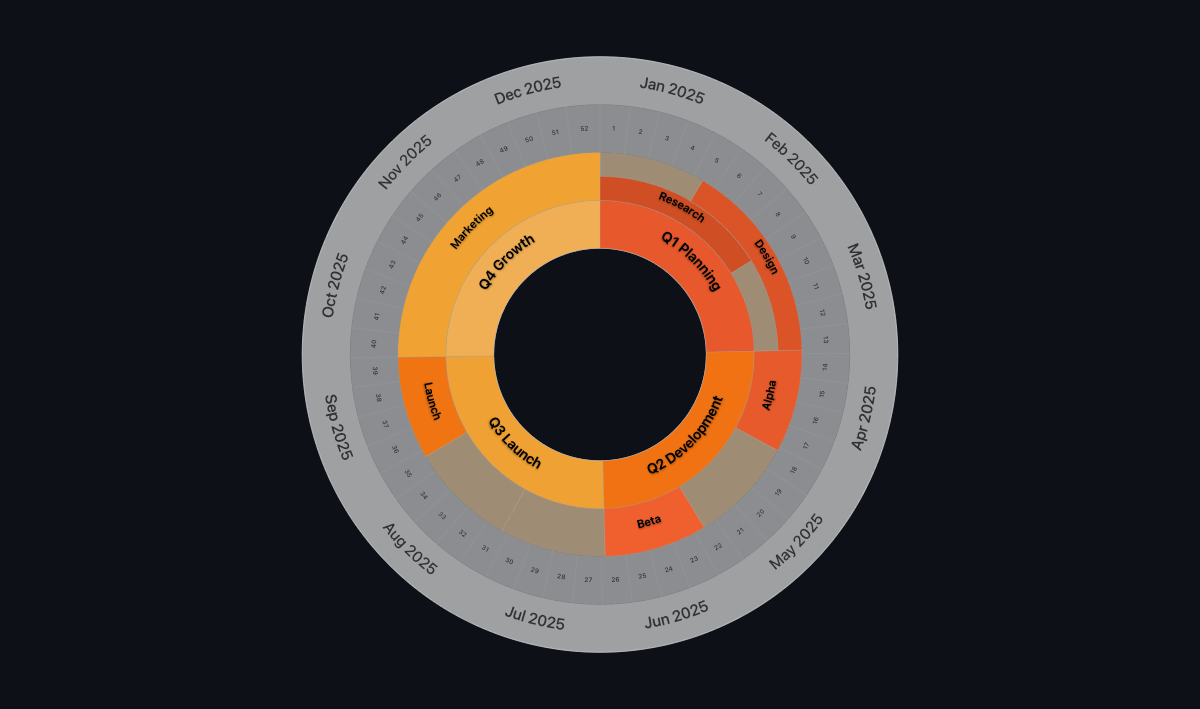
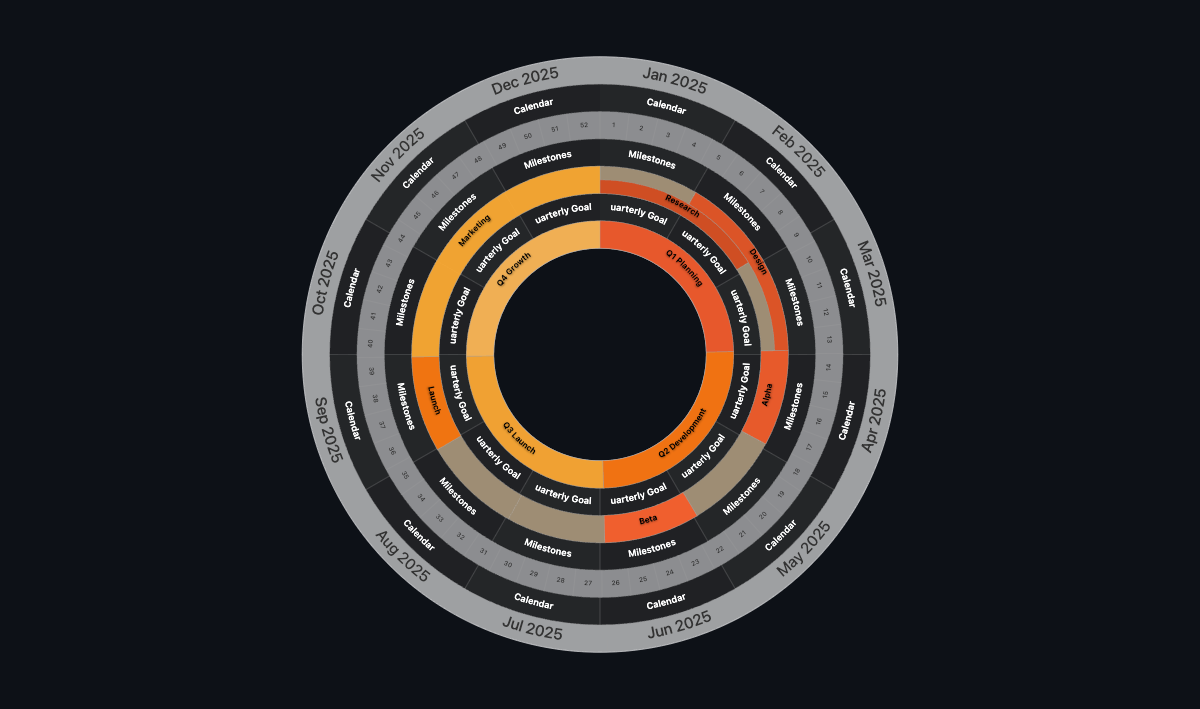
Update hero image with header rings showcasing capabilities
- Add header rings between data/calendar rings for better visual hierarchy
- Shows "Quarterly Goals", "Milestones", and "Calendar" labels
- Orange D3.js-inspired color scheme with dark background
- Showcases multiple ring types: quarterly data, monthly projects, week numbers, month labels, and header rings
- Clean, professional look demonstrating library's versatility

🤖 Generated with [Claude Code](https://claude.com/claude-code)

Changed region(s): [[0.2467, 0.0931, 0.74, 0.8999]]

diff --git a/generate-hero-cdn.html b/generate-hero-cdn.html
@@ -49,6 +49,15 @@
           height: 14,
           fontSize: 20
         },
+        // Header ring
+        {
+          type: 'header',
+          headerText: 'Quarterly Goals',
+          color: '#2c2c2c',
+          height: 6,
+          fontSize: 13,
+          fontColor: '#ffffff'
+        },
         // Monthly data ring - AMBER
         {
           type: 'data',
@@ -58,6 +67,15 @@
           height: 12,
           fontSize: 16
         },
+        // Header ring
+        {
+          type: 'header',
+          headerText: 'Milestones',
+          color: '#2c2c2c',
+          height: 6,
+          fontSize: 13,
+          fontColor: '#ffffff'
+        },
         // Week numbers calendar
         {
           type: 'calendar',
@@ -65,6 +83,15 @@
           color: '#e0e0e0',
           height: 8,
           fontSize: 11
+        },
+        // Header ring
+        {
+          type: 'header',
+          headerText: 'Calendar',
+          color: '#2c2c2c',
+          height: 6,
+          fontSize: 13,
+          fontColor: '#ffffff'
         },
         // Month labels (innermost ring)
         {
